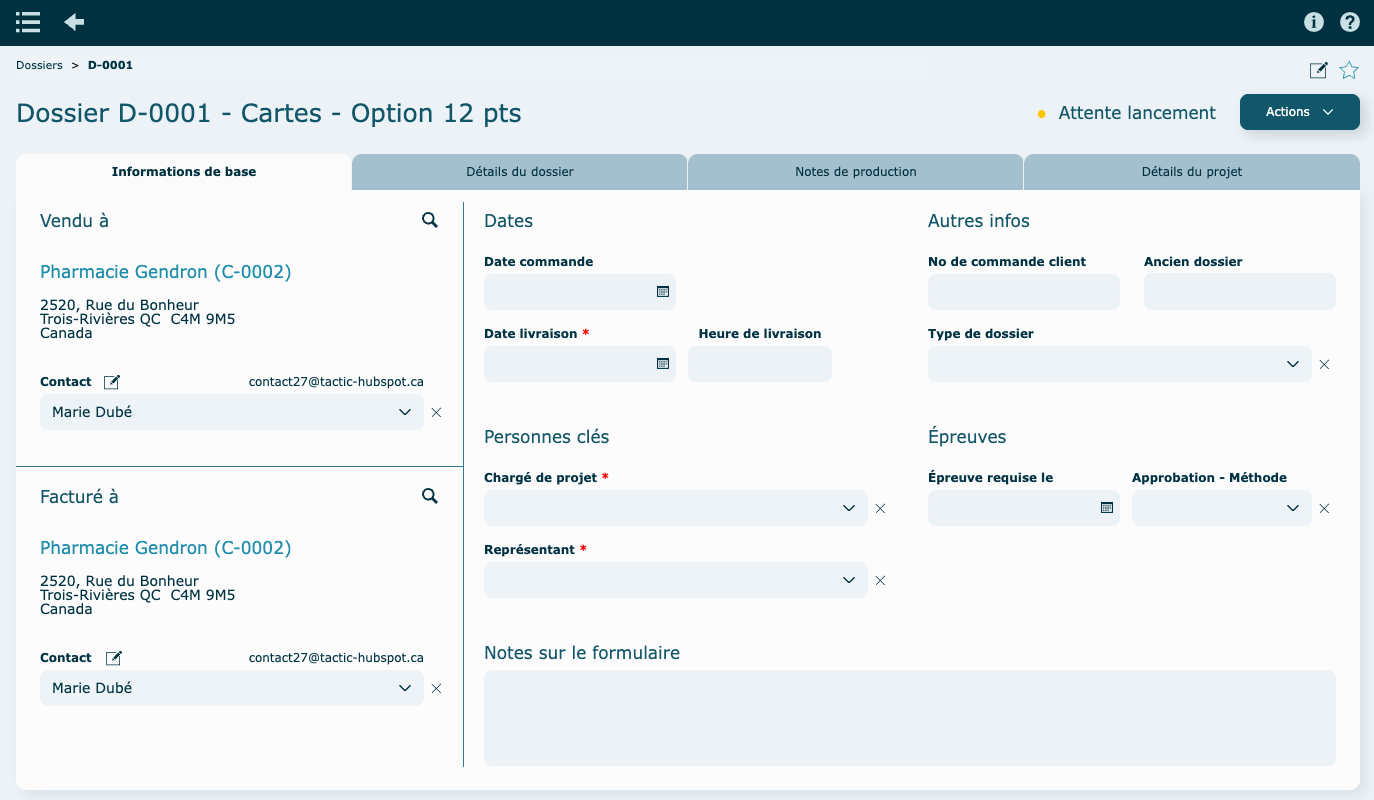
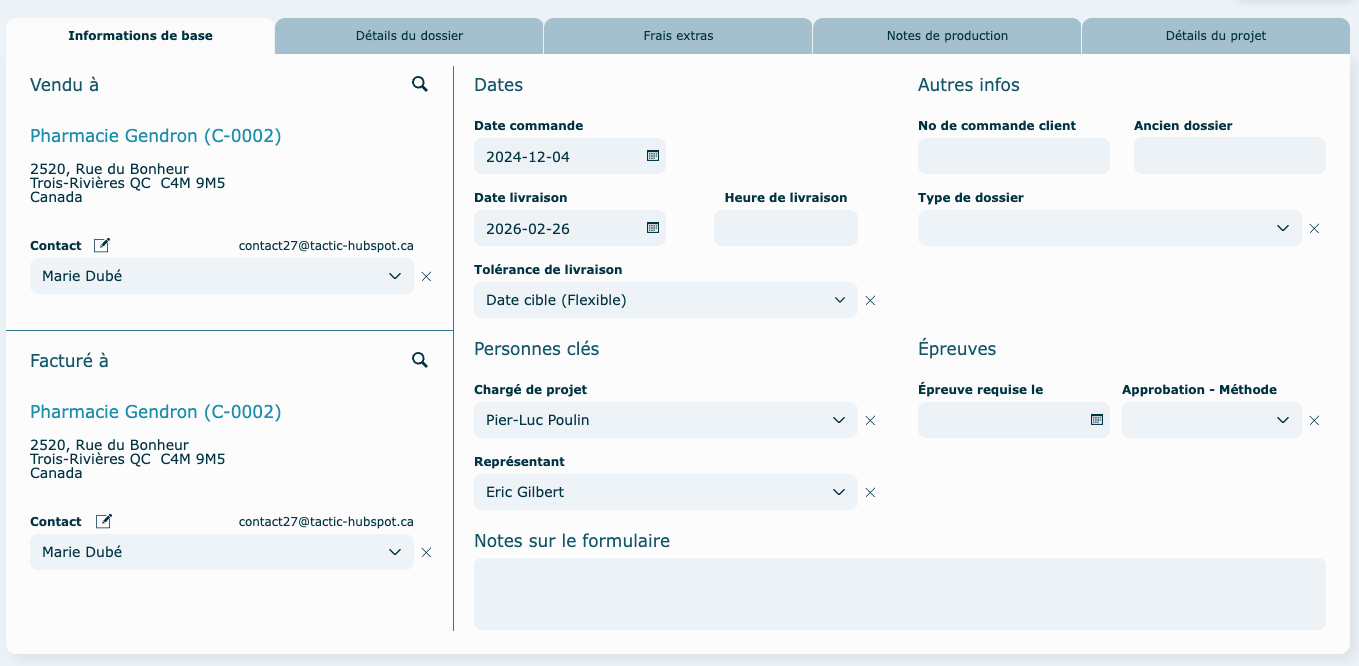
version 2.5 : frais extra, demande de prix, produit inactif, liens, etc

diff --git a/docs/achats/commandes.md b/docs/achats/commandes.md
@@ -22,7 +22,9 @@ Par défaut, le [filtre](../fonctionnalites-generales/navigation.md#filtres-tris
 
 ## Création d'une commande {#creation}
 
-- Cliquez sur **Créer une commande** en haut à droite de la liste.
+- Cliquez sur **Créer une commande** en haut à droite de la liste, puis choisissez le type : lignes de commande ou bloc de texte. 
+
+  ![](/img/DemandePrix_Commande_15.png)
 
 - Sélectionnez un fournisseur
 
@@ -33,6 +35,11 @@ Par défaut, le [filtre](../fonctionnalites-generales/navigation.md#filtres-tris
 Remplir les informations manquantes dans le haut de la fenêtre.
 
 ![](/img/Commandes_04.png)
+
+### Lignes de commande {#lignes}
+
+Utilisé pour entrer des produits à commander comme du papier, de la quincaillerie, etc. 
+Chaque ligne a sa quantité, son prix et sa description. 
 
 ### Ajouter une ligne de commande {#ajout-ligne}
 
@@ -59,6 +66,21 @@ Ajoutez une note au besoin, dans le bas de la fenêtre de commande. Elle se retr
 
 ![](/img/Commandes_13.png)
 
+### Bloc de texte {#blocs}
+Utilisé surtout pour les demandes de sous-traitance, car ça vous permet de saisir une information condensée dans un bloc, qui fera pratiquement votre page entière sur le formulaire imprimé. 
+
+![](/img/DemandePrix_Commande_12.png)
+
+Pour éditer le bloc texte, vous devrez appuyer sur le bouton `Éditer la commande`.
+
+![](/img/DemandePrix_Commande_13.png)
+
+Pour avoir un aperçu du texte sans passer par votre formulaire imprimé, et vous assure ainsi que rien ne sera coupé, vous pouvez appuyer sur la petite icône dans le coin droit (flèches).
+
+![](/img/DemandePrix_Commande_14.png)
+
+Pour plus de détail sur la création d'une commande depuis une demande de sous-traitance, veuillez consulter la [section](../achats/commandes.md#soustraitance) plus bas. 
+
 ### [Réquisitions](../achats/requisitions.md) {#requisitions}
 
 Onglet **Lignes de commande**
@@ -72,6 +94,8 @@ Onglet **Réquisitions**
 Affiche les réquisitions liées à la commande, lorsque celles-ci ont été utilisées lors de sa création.
 
 ![](/img/Commandes_12.png)
+
+---
 
 ## Changement du fournisseur {#changement-fournisseur}
 
@@ -91,6 +115,30 @@ Lorsque le magasiner reçoit les items, il doit se rendre dans un des items et c
 La commande passera alors au statut **Complétée**.
 
 ![](/img/Commande_complet.gif)
+
+
+## Commande avec produits inactifs {#inactif}
+
+Si une commande contient des produits inactifs, ceux-ci seront grisés, mais n'empêcheront aucune action comme la duplication ou l'envoi d'une commande.
+
+Toutefois, un message d'avertissement sera présent pour avertir l'usager et éviter ainsi des erreurs.
+
+Idéalement, le produit devrait être réactivé par l'acheteur ou le gestionnaire, pour qu'il puisse être utilisé sur une prochaine commande et que son prix soit confirmé. 
+
+![](/img/Commandes_ProduitInactif_01.png)
+
+![](/img/Commandes_ProduitInactif_02.png)
+
+
+## Commande de sous-traitance {#soustraitance}
+
+Si vous aviez fait une demande de sous-traitance au moment de votre soumission et que vous voulez ensuite créer une commande liée à celle-ci, vous pourrez le faire directement à partir du dossier. Voir cette [section](../production/dossiers.md#soustraitance).
+
+Dans l'icône en haut à droite, vous aurez votre lien vers la demande de sous-traitance et le dossier, vous pourrez donc vous y rendre rapidement et naviguer d'un à l'autre.
+
+![](/img/DemandePrix_lienversSTR.png)
+
+
 
 ---
 

diff --git a/docs/production/dossiers.md b/docs/production/dossiers.md
@@ -42,7 +42,7 @@ Bien que vous ayez le contrôle absolu sur les filtres, nous vous conseillons de
 
 Le plus commun est de créer un dossier à partir d'une soumission existante. Veuillez vous rendre dans le module soumission, puis dans l'item qui sera envoyé en dossier.
 
-Faire ensuite le bouton Actions et choisir Créer dossier.
+Faire ensuite le bouton `Actions` et choisir Créer dossier.
 
 ![](/img/Dossiers_05.png)
 
@@ -135,6 +135,14 @@ Si le client est manquant, veuillez aller le créer dans le module [Clients](../
 
 ![](/img/Dossiers_10.png)
 
+:::info
+À noter que si vous sélectionnez une tolérance de livraison, elle apparaitra en haut à droite de votre dossier imprimé ainsi qu'en rouge dans la liste de suivi. Pour modifier ces choix, rendez-vous dans les [Paramètres Standards](../parametres/standards.md#tolerance), section Emballage & Transport. 
+
+![](/img/ToleranceLiv_03.png)
+:::
+
+
+
 ### Approbation par courriel
 
 Sélection des contacts d'approbation d'épreuves possible lorsque la méthode d'approbation est par courriel. Cliquez dans le champs Approbation - Par pour en faire la sélection.
@@ -216,6 +224,20 @@ Cliquez sur **l'icône**![](/img/Contacts_2_iconeajout.png)
 Pour consulter, modifier, supprimer une note ou insérer et consulter des pièces jointes, vous référez à cette [section](../fonctionnalites-generales/notes.md#notes-actions).
 
 
+## Frais extra {#frais-extra}
+
+Dans cet onglet, vous pourrez ajouter des frais qui devront être facturés en extra, pendant la production, pour vous assurer qu'ils suivront à la facturation. Au moment de faire votre facture, ces frais seront automatiquement ajoutés. 
+
+:::info
+    À noter que les frais seront ajoutés à votre première facture. Si vous voulez les facturer partiellement, vous pouvez réduire la quantité ou supprimer les lignes complètement. Les frais seront présents lorsque vous referez une 2e facture, depuis le dossier de production. 
+    :::
+
+![](/img/Dossiers_fraisextra01.png)
+
+![](/img/Dossiers_fraisextra02.png)
+
+Pour définir vos frais extra qui apparaitront dans le menu, veuillez vous rendre dans les [Paramètres Système](../parametres/systeme.md#factures), section Factures. 
+
 ## Notes de production {#notes-production}
 
 Cet onglet rassemble toutes les notes d'un dossier à un seul endroit (infographie, traitement de fichiers, supports, impression, opérations et emballage) et celles-ci sont montrées dans 3 onglets distincts.
@@ -255,6 +277,18 @@ Pour toutes les informations relatives au fonctionnement des divers blocs prése
 - [Opérations globales](../estimation/soumissions.md#operations-globales)
 - [Emballages globaux](../estimation/soumissions.md#emballages-globaux)
 - [Transports & Livraisons](../estimation/soumissions.md#transports)
+
+
+
+### Opérations Externes - Créer une commande {#soustraitance}
+Depuis votre dossier, vous pourrez créer votre commande liée à votre demande de sous-traitance en passant par le bouton `Actions`, puis sur `Créer une commande`.
+
+![](/img/DemandePrix_Commande_10.png)
+
+![](/img/DemandePrix_Commande_11.png)
+
+Ceci reportera les informations de la demande de prix et le coût du fournisseur directement dans un bon de commande en bloc de texte. Veuillez vous rendre dans cette [section](../achats/commandes.md#blocs) pour plus d'informations. 
+
 
 ### Réquisitions et opérations {#requisitions-operations}
 

diff --git a/docs/estimation/sous-traitances.md b/docs/estimation/sous-traitances.md
@@ -24,7 +24,11 @@ Ce statut changera pour **Envoyée** lorsqu'elle sera envoyé par courriel à un
 
 ## Demande de sous-traitance {#sous-traitance}
 
-### Créer {#creation}
+### Création depuis la soumission {#creationsoum}
+
+Pour la création depuis une soumission, veuillez vous référez à la section se trouvant dans [Soumissions - Opérations Externes](../estimation/soumissions.md#externe)
+
+### Création manuelle {#creation}
 
 1. Cliquez sur **Créer une demande**
 2. Remplir la fiche
@@ -83,6 +87,16 @@ Enveloppe **en couleu**r : courriel envoyé
 
 ---
 
+## Transformer la demande en bon de commande {#commande}
+
+Une fois votre demande faite et vos prix inscrits dans la soumission, vous pourrez transformer votre demande en commande complète, une fois le dossier créé. Vous référez à la section [Dossier - Créer une commande.](../production/dossiers.md#soustraitance) 
+
+Si une commande existe déjà, vous pourrez vous y rendre facilement en cliquant sur l'icône de lien en haut à droite, puis sur la commande.
+
+![](/img/DemandePrix_lienversCommande.png)
+
+---
+
 ## Actions diverses {#actions}
 
 #### En mode [consultation](../fonctionnalites-generales/navigation.md#mode-consultation)
@@ -103,6 +117,7 @@ Si une soumission est liée à votre demande, vous pouvez la consulter en cliqua
 ![](/img/Soustraitances_12.png)
 
 - Une demande de sous-traitance peut être créée à partir d'une [opération externe](../estimation/soumissions.md#operations-globales) d'une soumission.
+
 
 ---
 

diff --git a/docs/fonctionnalites-generales/navigation.md b/docs/fonctionnalites-generales/navigation.md
@@ -45,6 +45,33 @@ Vous permet de consulter la fiche détaillée d'un des enregistrements.
 
 Pour modifier des informations, vous devrez généralement passer par le menu Actions, puis modifier, pour ouvrir une fenêtre d'édition.
 
+## Liens vers enregistrements liés {#liens}
+
+Dans la plupart des modules, une icône apparaitra dans le haut à droite pour vous amenez rapidement vers l'enregistrement lié selon où vous vous trouvez.
+
+![](/img/Navigation_icone.png)
+
+
+
+Par exemple : 
+
+- À la soumission : lien vers la soumission originale avant la duplication et vers les soumissions créées à partir de celle-ci.
+
+![](/img/Navigation_lien01.png)
+
+- Dans une demande de sous-traitance : lien vers la soumission ou le dossier lié à cette demande. 
+
+![](/img/Navigation_lien02.png)
+
+- Dans une commande : lien vers la demande de sous-traitance
+
+![](/img/Navigation_lien03.png)
+
+:::note
+Certains liens se retrouveront plutôt dans des portails, quand il y a une possibilité de plusieurs enregistrements. Exemple : tous les enregistrements liés au dossier (bon de livraison, facture, etc). En passant votre souris sur la ligne, le curseur deviendra une main et vous saurez que vous pourrez cliquer sur l'enregistrement pour vous rendre dans celui-ci. 
+:::
+
+
 ## Retour en arrière {#retour}
 
 Lorsque vous êtes en mode consultation, une icône en flèche vous permet de revenir à la liste.

diff --git a/docs/post-production/factures.md b/docs/post-production/factures.md
@@ -46,7 +46,13 @@ Par défaut, le [filtre](../fonctionnalites-generales/navigation.md#filtres-tris
 
     La **Qté facturée est** la quantité totale du dossier, à laquelle on soustrait les quantités qui pourraient avoir déjà été facturées pour ce dossier. Assurez-vous de la remplir si elle ne l'est pas déjà, en cliquant sur la ligne pour faire apparaitre la boîte d'édition.
 
-    Également, selon votre logiciel comptable, déterminez un compte GL par ligne, s'il n'est pas déjà rempli ( préalablement défini dans le dossier.
+    Également, selon votre logiciel comptable, déterminez un compte GL par ligne, s'il n'est pas déjà rempli (préalablement défini dans le dossier).
+
+    :::info
+    Si votre dossier contenait des **frais extra**, ils seront ajoutés automatiquement à la première facture qui sera produite. Si vous avez livré partiellement que vous faites une 2e facture, les frais qui n'ont pas été facturés au complet vont apparaitre. Vous pouvez supprimer les lignes au besoin ou ajuster les quantités.
+    
+     Voir section [Dossiers - Frais extra](../production/dossiers.md#frais-extra) pour plus de détails. 
+    :::
 
     ![](/img/Facturation_05.png)
 

diff --git a/docs/production/liste-suivi.md b/docs/production/liste-suivi.md
@@ -25,7 +25,7 @@ Vous pouvez aussi cliquer sur une opération et la terminer par la case Complet 
 
 ![](/img/Liste_suivi_03.png)
 
-### Opérations {#operations}
+## Opérations {#operations}
 
 Cliquez sur la ligne d'une des opération pour accéder à son détail, dans la portion de droite.
 
@@ -41,6 +41,20 @@ Cliquez sur **Enregistrer**.
 Exemple : Opération Traitement des fichiers
 
 ![](/img/Liste_suivi_04.png)
+
+## Tolérance {#tolerance}
+
+L'information inscrite dans la colonne Tolérance provient du dossier de production lié. Parfaite pour identifier vos travaux nécessitant une attention particulière pour la livraison (ex : sans faute, rush, date flexible, etc). Pour modifier ces choix, rendez-vous dans les [Paramètres Standards](../parametres/standards.md#tolerance), section Emballage & Transport. 
+
+![](/img/ToleranceLiv_04.png)
+
+
+## Lien vers dossier lié {#lien}
+
+Pour se rendre dans le dossier lié par la liste de suivi, ouvrir la fenêtre d'opérations, puis cliquez sur le bouton `Actions` et puis sur `Aller à ce dossier`. 
+
+![](/img/Liste_suivi_aller01.png)
+
 
 ---
 

diff --git a/docs/estimation/soumissions.md b/docs/estimation/soumissions.md
@@ -384,6 +384,7 @@ Si la finition sélectionnée le demande, un champ apparaitra pour valider le **
 ### Externe {#externe}
 
   Sélectionnez une famille d'opération. Ici on choisit **Reliure Externe**.
+  
   ![](/img/Soumissions_42.png)
 
   Sélectionnez une opération. Ici on choisit **Broché à cheval**.
@@ -397,7 +398,7 @@ Si la finition sélectionnée le demande, un champ apparaitra pour valider le **
 
   ![](/img/Soumissions_45.png)
 
-  **Créer une demande** : vous référez à cette [section](./sous-traitances.md)
+  **Compléter une demande** : vous référez à cette [section](./sous-traitances.md)
 
   Pour lier l'opération à une demande déjà existante, cliquez sur **Lier une demande** et sélectionnez la dans la liste.
 

diff --git a/docs/parametres/standards.md b/docs/parametres/standards.md
@@ -160,6 +160,19 @@ Vous pourrez également sélectionner le délai à utiliser par défaut, ainsi q
 
 ![](/img/Parametres_Preferences_Delais03.png)
 
+### Tolérance de livraison {#tolerance}
+
+Dans ces standards, vous pourrez contrôler les données affichées dans le menu de tolérance de livraison, affiché au dossier et dans la liste de suivi.
+
+Parfait pour identifier facilement les dossiers à livrer à une date fixe ou un "rush". 
+
+Vous pourrez sélectionner celui à utiliser par défaut, ou bien laisser la case vide pour les choisir manuellement au dossier, selon votre besoin.
+
+![](/img/ToleranceLiv_01.png)
+
+![](/img/ToleranceLiv_02.png)
+
+
 ### Transport {#transport}
 
 Ajoutez vos transporteurs ici. 

diff --git a/docs/parametres/systeme.md b/docs/parametres/systeme.md
@@ -158,8 +158,13 @@ Inscrivez la liste de vos comptes GL (Revenus et Dépenses).
 
 ### Factures {#factures}
 
-Cocher la case pour faire apparaitre le numéro de dossier sur vos formulaires de facturation. 
+Cochez la case pour faire apparaitre le numéro de dossier sur vos formulaires de facturation. 
+
+Également, à cet endroit, vous pourrez définir vos frais extra que vous voudrez utiliser au dossier, avant la facturation finale.
+
 ![](/img/Facturation_NoDossier_02.png)
+
+
 
 ### Produits standards à facturer {#produits-facturation}
 

diff --git a/docs/achats/requisitions.md b/docs/achats/requisitions.md
@@ -29,7 +29,7 @@ Un message de confirmation apparaitra pour vous mentionner que la commande a ét
 
 ![](/img/Requisition_03.gif)
 
-Cliquez sur le bouton **Rafraîchir** pour actualiser la liste des réquisitions affichées, pour vous assurez que toutes les réquisitions récentes s'y trouvent.
+Cliquez sur le bouton `Rafraîchir` pour actualiser la liste des réquisitions affichées, pour vous assurez que toutes les réquisitions récentes s'y trouvent.
 
 ![](/img/Requisition_04.png)
 
